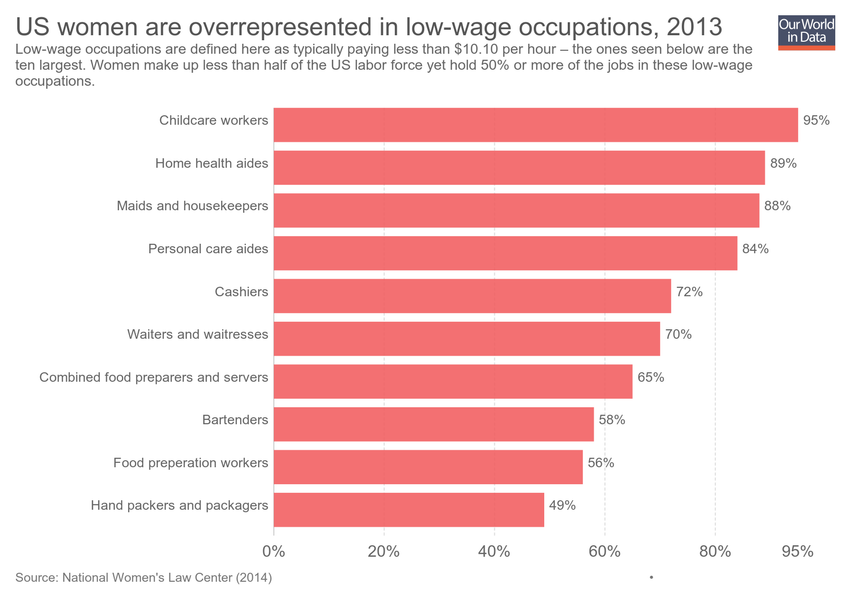
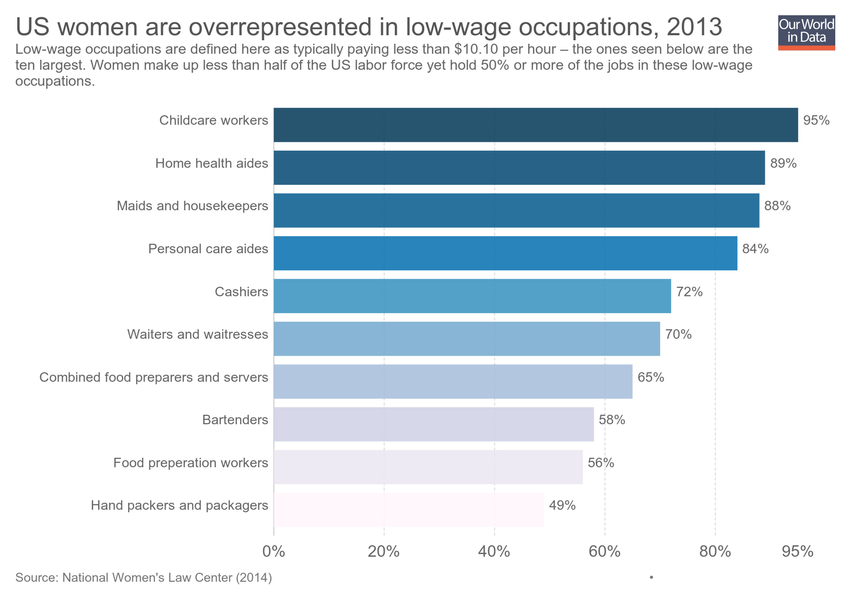
Updating chart us-women-are-overrepresented-in-low-wage-occupations

Changed region(s): [[0.3059, 0.18, 0.9482, 0.9]]

diff --git a/grapher/proportion-of-women-in-senior-and-middle-management-positions.html b/grapher/proportion-of-women-in-senior-and-middle-management-positions.html
@@ -1,4 +1,4 @@
-<!doctype html><html><head><meta name="viewport" content="width=device-width, initial-scale=1" /><title>Proportion of women in senior and middle management positions - Our World in Data</title><meta name="description" content="Estimates are based on employment statistics by occupation. 'Senior and middle management' correspond to those employed as &quot;legislators, senior officials and managers &quot; under the International Standard Classification of Occupations (see source for more details)." /><link rel="canonical" href="https://ourworldindata.org/grapher/proportion-of-women-in-senior-and-middle-management-positions" /><meta property="fb:app_id" content="1149943818390250" /><meta property="og:url" content="https://ourworldindata.org/grapher/proportion-of-women-in-senior-and-middle-management-positions" /><meta property="og:title" content="Proportion of women in senior and middle management positions" /><meta property="og:description" content="Estimates are based on employment statistics by occupation. 'Senior and middle management' correspond to those employed as &quot;legislators, senior officials and managers &quot; under the International Standard Classification of Occupations (see source for more details)." /><meta property="og:image" content="https://ourworldindata.org/grapher/exports/proportion-of-women-in-senior-and-middle-management-positions.png?v=2" /><meta property="og:image:width" content="850" /><meta property="og:image:height" content="600" /><meta property="og:site_name" content="Our World in Data" /><meta name="twitter:card" content="summary_large_image" /><meta name="twitter:site" content="@OurWorldInData" /><meta name="twitter:creator" content="@OurWorldInData" /><meta name="twitter:title" content="Proportion of women in senior and middle management positions" /><meta name="twitter:description" content="Estimates are based on employment statistics by occupation. 'Senior and middle management' correspond to those employed as &quot;legislators, senior officials and managers &quot; under the International Standard Classification of Occupations (see source for more details)." /><meta name="twitter:image" content="https://ourworldindata.org/grapher/exports/proportion-of-women-in-senior-and-middle-management-positions.png?v=2" /><style>
+<!doctype html><html><head><meta name="viewport" content="width=device-width, initial-scale=1" /><title>Proportion of women in senior and middle management positions - Our World in Data</title><meta name="description" content="Estimates are based on employment statistics by occupation. 'Senior and middle management' correspond to those employed as &quot;legislators, senior officials and managers &quot; under the International Standard Classification of Occupations (see source for more details)." /><link rel="canonical" href="https://ourworldindata.org/grapher/proportion-of-women-in-senior-and-middle-management-positions" /><meta property="fb:app_id" content="1149943818390250" /><meta property="og:url" content="https://ourworldindata.org/grapher/proportion-of-women-in-senior-and-middle-management-positions" /><meta property="og:title" content="Proportion of women in senior and middle management positions" /><meta property="og:description" content="Estimates are based on employment statistics by occupation. 'Senior and middle management' correspond to those employed as &quot;legislators, senior officials and managers &quot; under the International Standard Classification of Occupations (see source for more details)." /><meta property="og:image" content="https://ourworldindata.org/grapher/exports/proportion-of-women-in-senior-and-middle-management-positions.png?v=3" /><meta property="og:image:width" content="850" /><meta property="og:image:height" content="600" /><meta property="og:site_name" content="Our World in Data" /><meta name="twitter:card" content="summary_large_image" /><meta name="twitter:site" content="@OurWorldInData" /><meta name="twitter:creator" content="@OurWorldInData" /><meta name="twitter:title" content="Proportion of women in senior and middle management positions" /><meta name="twitter:description" content="Estimates are based on employment statistics by occupation. 'Senior and middle management' correspond to those employed as &quot;legislators, senior officials and managers &quot; under the International Standard Classification of Occupations (see source for more details)." /><meta name="twitter:image" content="https://ourworldindata.org/grapher/exports/proportion-of-women-in-senior-and-middle-management-positions.png?v=3" /><style>
         html, body {
             height: 100%;
             margin: 0;
@@ -20,8 +20,8 @@
         }
     </style><noscript><style>
                     figure { display: none !important; }
-                </style></noscript><link rel="stylesheet" href="https://ourworldindata.org/grapher/assets/commons.bundle.62f8703dfc964fd3975c.css" /><link rel="preload" href="/grapher/data/variables/67044.json?v=2" as="fetch" crossorigin /></head><body class="singleChart"><figure data-grapher-src="/grapher/proportion-of-women-in-senior-and-middle-management-positions"></figure><noscript id="fallback"><img src="/grapher/exports/proportion-of-women-in-senior-and-middle-management-positions.svg" /><p>Interactive visualization requires JavaScript</p></noscript><script src="https://cdn.polyfill.io/v2/polyfill.min.js?features=es6,fetch"></script><script src="https://ourworldindata.org/grapher/assets/commons.bundle.62f8703dfc964fd3975c.js"></script><script src="https://ourworldindata.org/grapher/assets/charts.bundle.dcf65b68eddaba4c6a58.js"></script><script>
-        var jsonConfig = {"id":2431,"map":{"projection":"World","targetYear":2016,"variableId":67044,"timeTolerance":10,"colorSchemeLabels":[null,null,null,null,null],"colorSchemeValues":[],"colorSchemeMinValue":0,"customNumericColors":[],"customCategoryColors":{},"customCategoryLabels":{},"customHiddenCategories":{}},"tab":"chart","slug":"proportion-of-women-in-senior-and-middle-management-positions","type":"DiscreteBar","title":"Proportion of women in senior and middle management positions","xAxis":{"scaleType":"linear"},"yAxis":{"min":0,"scaleType":"linear"},"version":2,"subtitle":"Estimates are based on employment statistics by occupation. 'Senior and middle management' correspond to those employed as \"legislators, senior officials and managers \" under the International Standard Classification of Occupations (see source for more details).","hasMapTab":true,"stackMode":"absolute","dimensions":[{"display":{"shortUnit":"%","tolerance":10},"property":"y","variableId":67044}],"sourceDesc":"United Nations Statistics Division","hasChartTab":true,"isPublished":true,"selectedData":[{"index":0,"entityId":3},{"index":0,"entityId":81},{"index":0,"entityId":42},{"index":0,"entityId":161},{"index":0,"entityId":133},{"index":0,"entityId":113},{"index":0,"entityId":1},{"index":0,"entityId":7},{"index":0,"entityId":9},{"index":0,"entityId":158},{"index":0,"entityId":140},{"index":0,"entityId":64},{"index":0,"entityId":88},{"index":0,"entityId":70},{"index":0,"entityId":115}],"addCountryMode":"add-country","baseColorScheme":"PuRd"};
+                </style></noscript><link rel="stylesheet" href="https://ourworldindata.org/grapher/assets/commons.bundle.62f8703dfc964fd3975c.css" /><link rel="preload" href="/grapher/data/variables/67044.json?v=3" as="fetch" crossorigin /></head><body class="singleChart"><figure data-grapher-src="/grapher/proportion-of-women-in-senior-and-middle-management-positions"></figure><noscript id="fallback"><img src="/grapher/exports/proportion-of-women-in-senior-and-middle-management-positions.svg" /><p>Interactive visualization requires JavaScript</p></noscript><script src="https://cdn.polyfill.io/v2/polyfill.min.js?features=es6,fetch"></script><script src="https://ourworldindata.org/grapher/assets/commons.bundle.62f8703dfc964fd3975c.js"></script><script src="https://ourworldindata.org/grapher/assets/charts.bundle.dcf65b68eddaba4c6a58.js"></script><script>
+        var jsonConfig = {"id":2431,"map":{"projection":"World","targetYear":2016,"variableId":67044,"timeTolerance":10,"colorSchemeLabels":[null,null,null,null,null],"colorSchemeValues":[],"colorSchemeMinValue":0,"customNumericColors":[],"customCategoryColors":{},"customCategoryLabels":{},"customHiddenCategories":{}},"tab":"chart","slug":"proportion-of-women-in-senior-and-middle-management-positions","type":"DiscreteBar","title":"Proportion of women in senior and middle management positions","xAxis":{"scaleType":"linear"},"yAxis":{"min":0,"scaleType":"linear"},"version":3,"subtitle":"Estimates are based on employment statistics by occupation. 'Senior and middle management' correspond to those employed as \"legislators, senior officials and managers \" under the International Standard Classification of Occupations (see source for more details).","hasMapTab":true,"stackMode":"absolute","dimensions":[{"display":{"shortUnit":"%","tolerance":10},"property":"y","variableId":67044}],"sourceDesc":"United Nations Statistics Division","hasChartTab":true,"isPublished":true,"selectedData":[{"index":0,"entityId":3},{"index":0,"entityId":81},{"index":0,"entityId":42},{"index":0,"entityId":161},{"index":0,"entityId":133},{"index":0,"entityId":113},{"index":0,"entityId":1},{"index":0,"entityId":7},{"index":0,"entityId":9},{"index":0,"entityId":158},{"index":0,"entityId":140},{"index":0,"entityId":64},{"index":0,"entityId":88},{"index":0,"entityId":70},{"index":0,"entityId":115}],"addCountryMode":"add-country","baseColorScheme":"PuRd"};
         var figure = document.getElementsByTagName("figure")[0];
         try {
             window.App = {};

diff --git a/grapher/us-women-are-overrepresented-in-low-wage-occupations.html b/grapher/us-women-are-overrepresented-in-low-wage-occupations.html
@@ -1,4 +1,4 @@
-<!doctype html><html><head><meta name="viewport" content="width=device-width, initial-scale=1" /><title>US women are overrepresented in low-wage occupations - Our World in Data</title><meta name="description" content="Low-wage occupations are defined here as typically paying less than $10.10 per hour – the ones seen below are the ten largest. Women make up less than half of the US labor force yet hold 50% or more of the jobs in these low-wage occupations." /><link rel="canonical" href="https://ourworldindata.org/grapher/us-women-are-overrepresented-in-low-wage-occupations" /><meta property="fb:app_id" content="1149943818390250" /><meta property="og:url" content="https://ourworldindata.org/grapher/us-women-are-overrepresented-in-low-wage-occupations" /><meta property="og:title" content="US women are overrepresented in low-wage occupations" /><meta property="og:description" content="Low-wage occupations are defined here as typically paying less than $10.10 per hour – the ones seen below are the ten largest. Women make up less than half of the US labor force yet hold 50% or more of the jobs in these low-wage occupations." /><meta property="og:image" content="https://ourworldindata.org/grapher/exports/us-women-are-overrepresented-in-low-wage-occupations.png?v=1" /><meta property="og:image:width" content="850" /><meta property="og:image:height" content="600" /><meta property="og:site_name" content="Our World in Data" /><meta name="twitter:card" content="summary_large_image" /><meta name="twitter:site" content="@OurWorldInData" /><meta name="twitter:creator" content="@OurWorldInData" /><meta name="twitter:title" content="US women are overrepresented in low-wage occupations" /><meta name="twitter:description" content="Low-wage occupations are defined here as typically paying less than $10.10 per hour – the ones seen below are the ten largest. Women make up less than half of the US labor force yet hold 50% or more of the jobs in these low-wage occupations." /><meta name="twitter:image" content="https://ourworldindata.org/grapher/exports/us-women-are-overrepresented-in-low-wage-occupations.png?v=1" /><style>
+<!doctype html><html><head><meta name="viewport" content="width=device-width, initial-scale=1" /><title>US women are overrepresented in low-wage occupations - Our World in Data</title><meta name="description" content="Low-wage occupations are defined here as typically paying less than $10.10 per hour – the ones seen below are the ten largest. Women make up less than half of the US labor force yet hold 50% or more of the jobs in these low-wage occupations." /><link rel="canonical" href="https://ourworldindata.org/grapher/us-women-are-overrepresented-in-low-wage-occupations" /><meta property="fb:app_id" content="1149943818390250" /><meta property="og:url" content="https://ourworldindata.org/grapher/us-women-are-overrepresented-in-low-wage-occupations" /><meta property="og:title" content="US women are overrepresented in low-wage occupations" /><meta property="og:description" content="Low-wage occupations are defined here as typically paying less than $10.10 per hour – the ones seen below are the ten largest. Women make up less than half of the US labor force yet hold 50% or more of the jobs in these low-wage occupations." /><meta property="og:image" content="https://ourworldindata.org/grapher/exports/us-women-are-overrepresented-in-low-wage-occupations.png?v=2" /><meta property="og:image:width" content="850" /><meta property="og:image:height" content="600" /><meta property="og:site_name" content="Our World in Data" /><meta name="twitter:card" content="summary_large_image" /><meta name="twitter:site" content="@OurWorldInData" /><meta name="twitter:creator" content="@OurWorldInData" /><meta name="twitter:title" content="US women are overrepresented in low-wage occupations" /><meta name="twitter:description" content="Low-wage occupations are defined here as typically paying less than $10.10 per hour – the ones seen below are the ten largest. Women make up less than half of the US labor force yet hold 50% or more of the jobs in these low-wage occupations." /><meta name="twitter:image" content="https://ourworldindata.org/grapher/exports/us-women-are-overrepresented-in-low-wage-occupations.png?v=2" /><style>
         html, body {
             height: 100%;
             margin: 0;
@@ -20,8 +20,8 @@
         }
     </style><noscript><style>
                     figure { display: none !important; }
-                </style></noscript><link rel="stylesheet" href="https://ourworldindata.org/grapher/assets/commons.bundle.62f8703dfc964fd3975c.css" /><link rel="preload" href="/grapher/data/variables/42990.json?v=1" as="fetch" crossorigin /></head><body class="singleChart"><figure data-grapher-src="/grapher/us-women-are-overrepresented-in-low-wage-occupations"></figure><noscript id="fallback"><img src="/grapher/exports/us-women-are-overrepresented-in-low-wage-occupations.svg" /><p>Interactive visualization requires JavaScript</p></noscript><script src="https://cdn.polyfill.io/v2/polyfill.min.js?features=es6,fetch"></script><script src="https://ourworldindata.org/grapher/assets/commons.bundle.62f8703dfc964fd3975c.js"></script><script src="https://ourworldindata.org/grapher/assets/charts.bundle.dcf65b68eddaba4c6a58.js"></script><script>
-        var jsonConfig = {"id":1481,"map":{"projection":"World","legendStepSize":20,"colorSchemeLabels":[],"colorSchemeValues":[],"defaultProjection":"World","colorSchemeMinValue":0,"customNumericColors":[],"customCategoryColors":{},"customCategoryLabels":{},"customHiddenCategories":{}},"tab":"chart","slug":"us-women-are-overrepresented-in-low-wage-occupations","type":"DiscreteBar","title":"US women are overrepresented in low-wage occupations","xAxis":{"scaleType":"linear"},"yAxis":{"min":0,"scaleType":"linear"},"version":1,"subtitle":"Low-wage occupations are defined here as typically paying less than $10.10 per hour – the ones seen below are the ten largest. Women make up less than half of the US labor force yet hold 50% or more of the jobs in these low-wage occupations.","hasMapTab":false,"originUrl":"","stackMode":"absolute","dimensions":[{"id":9858,"order":0,"chartId":1481,"display":{},"property":"y","targetYear":null,"variableId":42990}],"isAutoSlug":true,"hasChartTab":true,"isPublished":true,"selectedData":[{"index":0,"entityId":35506},{"index":0,"entityId":35503},{"index":0,"entityId":35499},{"index":0,"entityId":35505},{"index":0,"entityId":35507},{"index":0,"entityId":35508},{"index":0,"entityId":35500},{"index":0,"entityId":35501},{"index":0,"entityId":35502},{"index":0,"entityId":35504}],"internalNotes":"","addCountryMode":"add-country"};
+                </style></noscript><link rel="stylesheet" href="https://ourworldindata.org/grapher/assets/commons.bundle.62f8703dfc964fd3975c.css" /><link rel="preload" href="/grapher/data/variables/42990.json?v=2" as="fetch" crossorigin /></head><body class="singleChart"><figure data-grapher-src="/grapher/us-women-are-overrepresented-in-low-wage-occupations"></figure><noscript id="fallback"><img src="/grapher/exports/us-women-are-overrepresented-in-low-wage-occupations.svg" /><p>Interactive visualization requires JavaScript</p></noscript><script src="https://cdn.polyfill.io/v2/polyfill.min.js?features=es6,fetch"></script><script src="https://ourworldindata.org/grapher/assets/commons.bundle.62f8703dfc964fd3975c.js"></script><script src="https://ourworldindata.org/grapher/assets/charts.bundle.dcf65b68eddaba4c6a58.js"></script><script>
+        var jsonConfig = {"id":1481,"map":{"projection":"World","colorSchemeLabels":[],"colorSchemeValues":[],"colorSchemeMinValue":0,"customNumericColors":[],"customCategoryColors":{},"customCategoryLabels":{},"customHiddenCategories":{}},"tab":"chart","slug":"us-women-are-overrepresented-in-low-wage-occupations","type":"DiscreteBar","title":"US women are overrepresented in low-wage occupations","xAxis":{"scaleType":"linear"},"yAxis":{"min":0,"scaleType":"linear"},"version":2,"subtitle":"Low-wage occupations are defined here as typically paying less than $10.10 per hour – the ones seen below are the ten largest. Women make up less than half of the US labor force yet hold 50% or more of the jobs in these low-wage occupations.","hasMapTab":false,"originUrl":"","stackMode":"absolute","dimensions":[{"display":{},"property":"y","variableId":42990}],"hasChartTab":true,"isPublished":true,"selectedData":[{"index":0,"entityId":35506},{"index":0,"entityId":35503},{"index":0,"entityId":35499},{"index":0,"entityId":35505},{"index":0,"entityId":35507},{"index":0,"entityId":35508},{"index":0,"entityId":35500},{"index":0,"entityId":35501},{"index":0,"entityId":35502},{"index":0,"entityId":35504}],"internalNotes":"","addCountryMode":"disabled"};
         var figure = document.getElementsByTagName("figure")[0];
         try {
             window.App = {};
